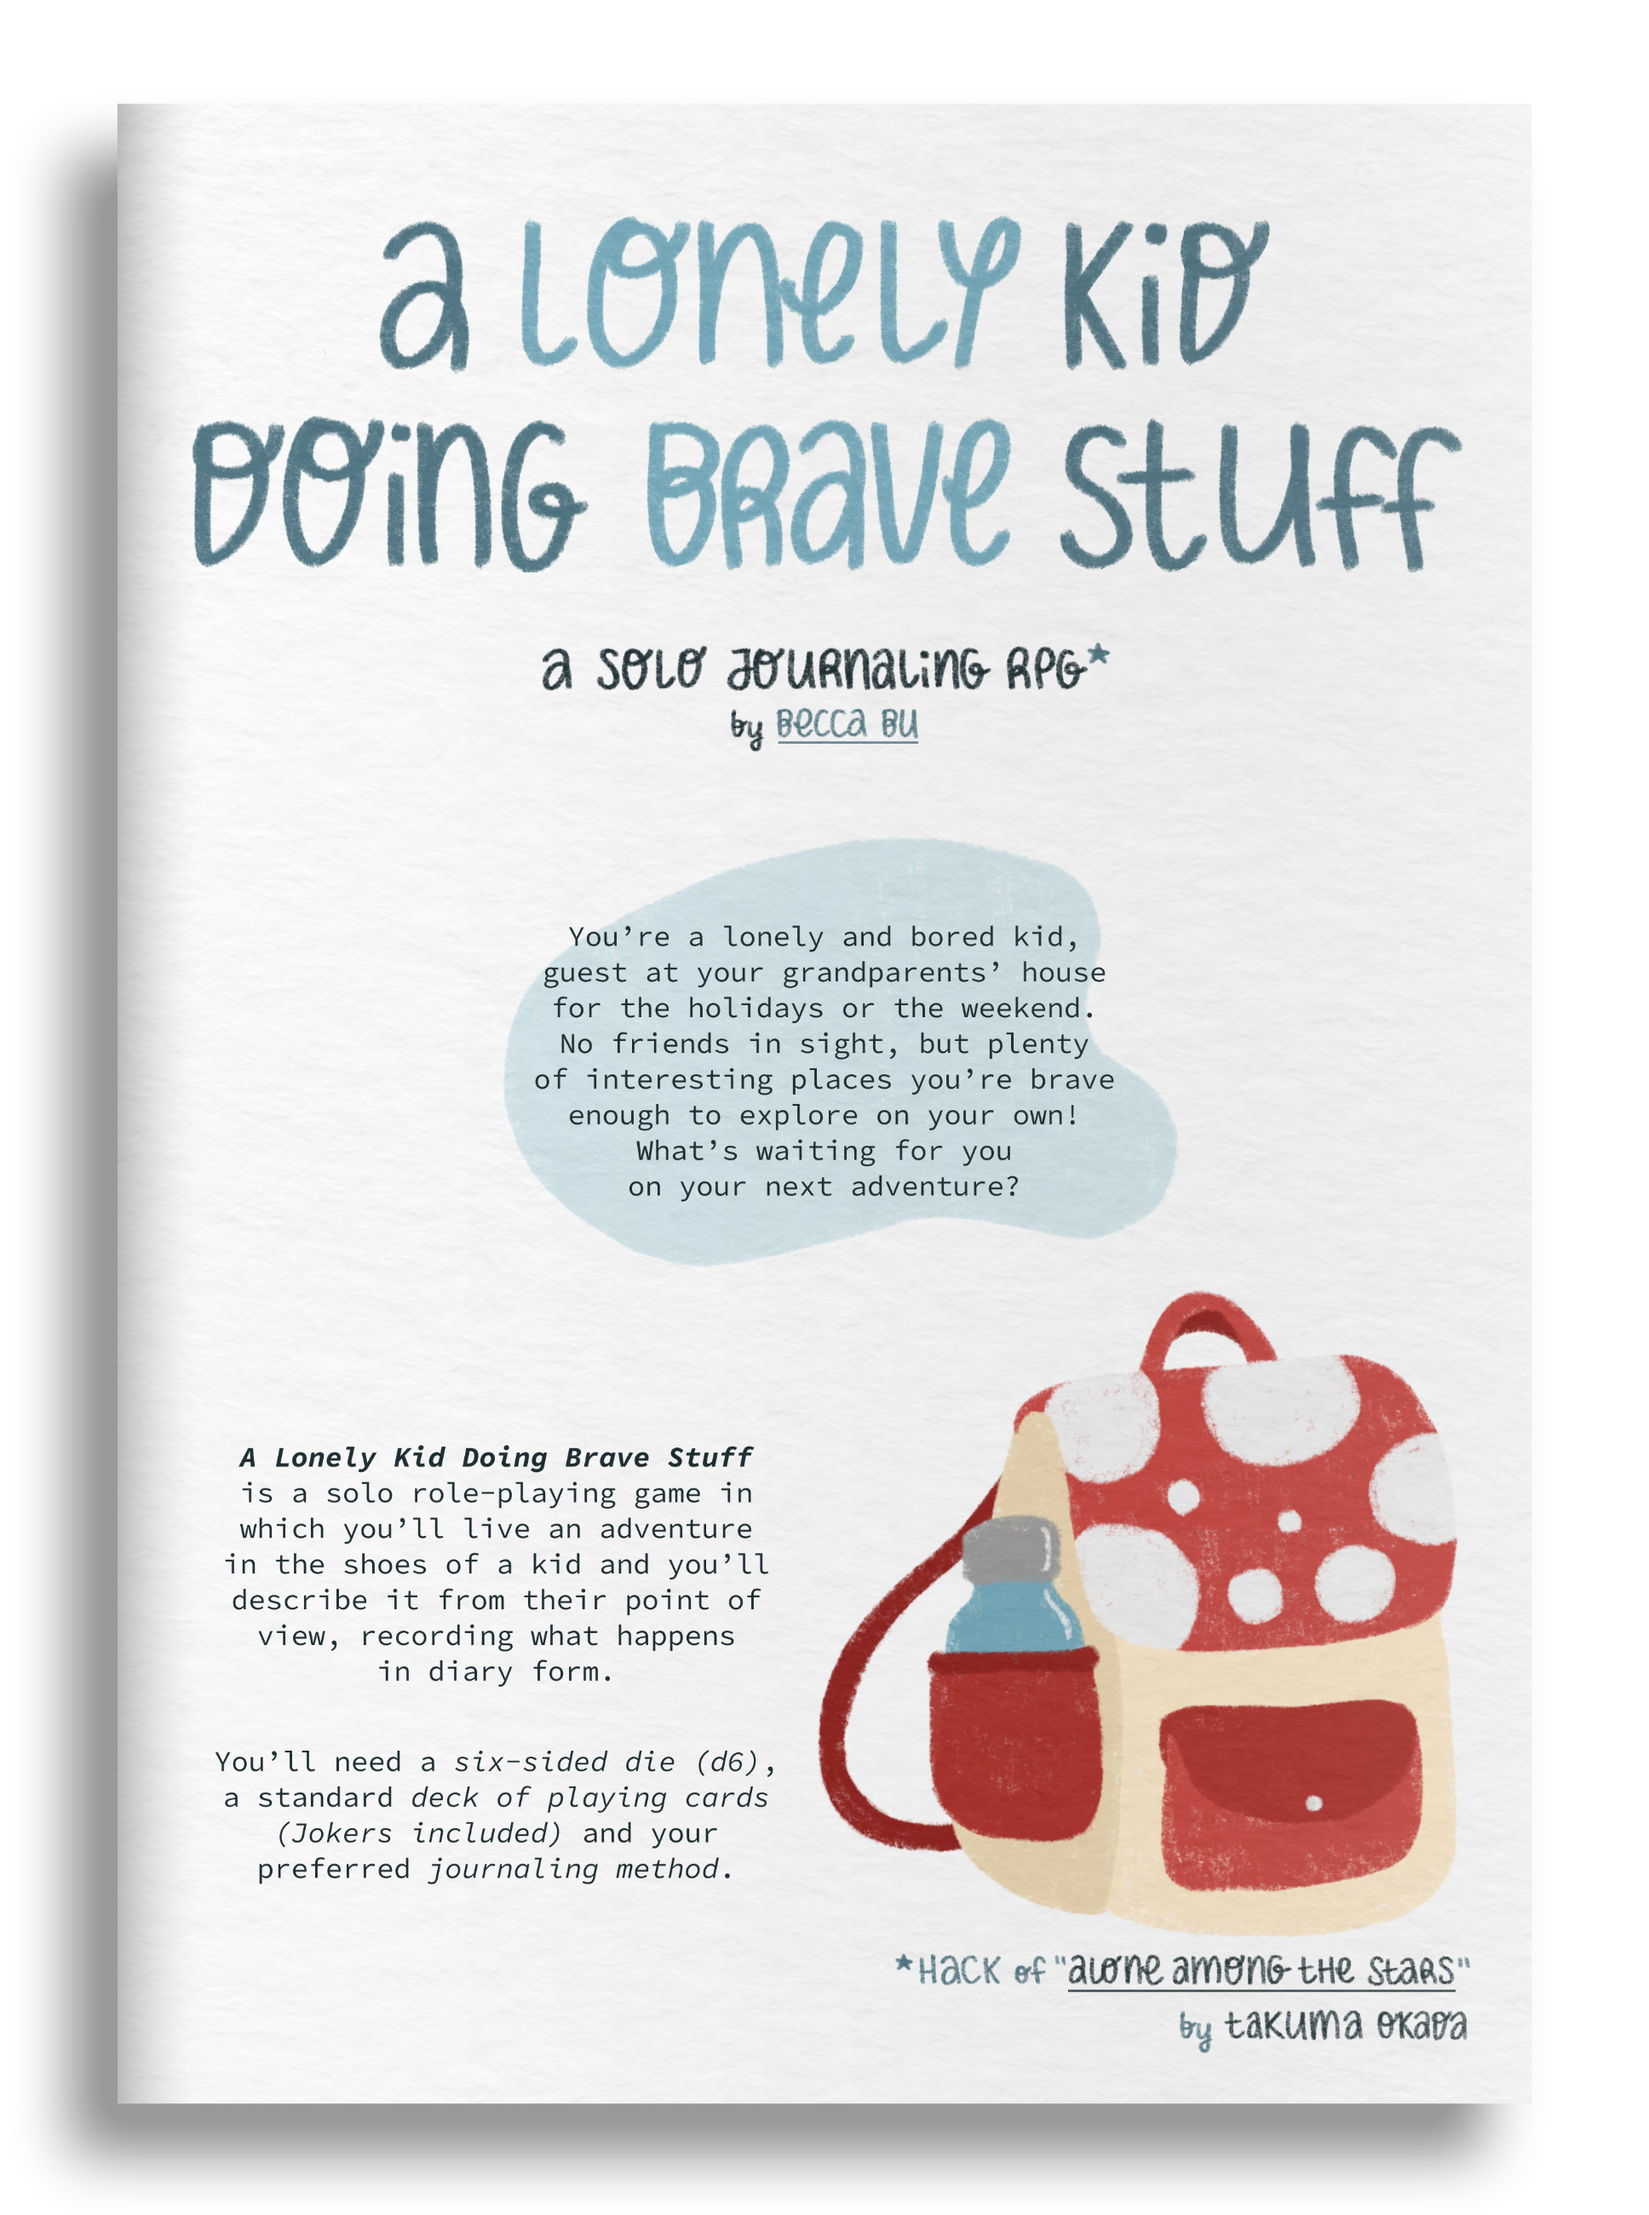
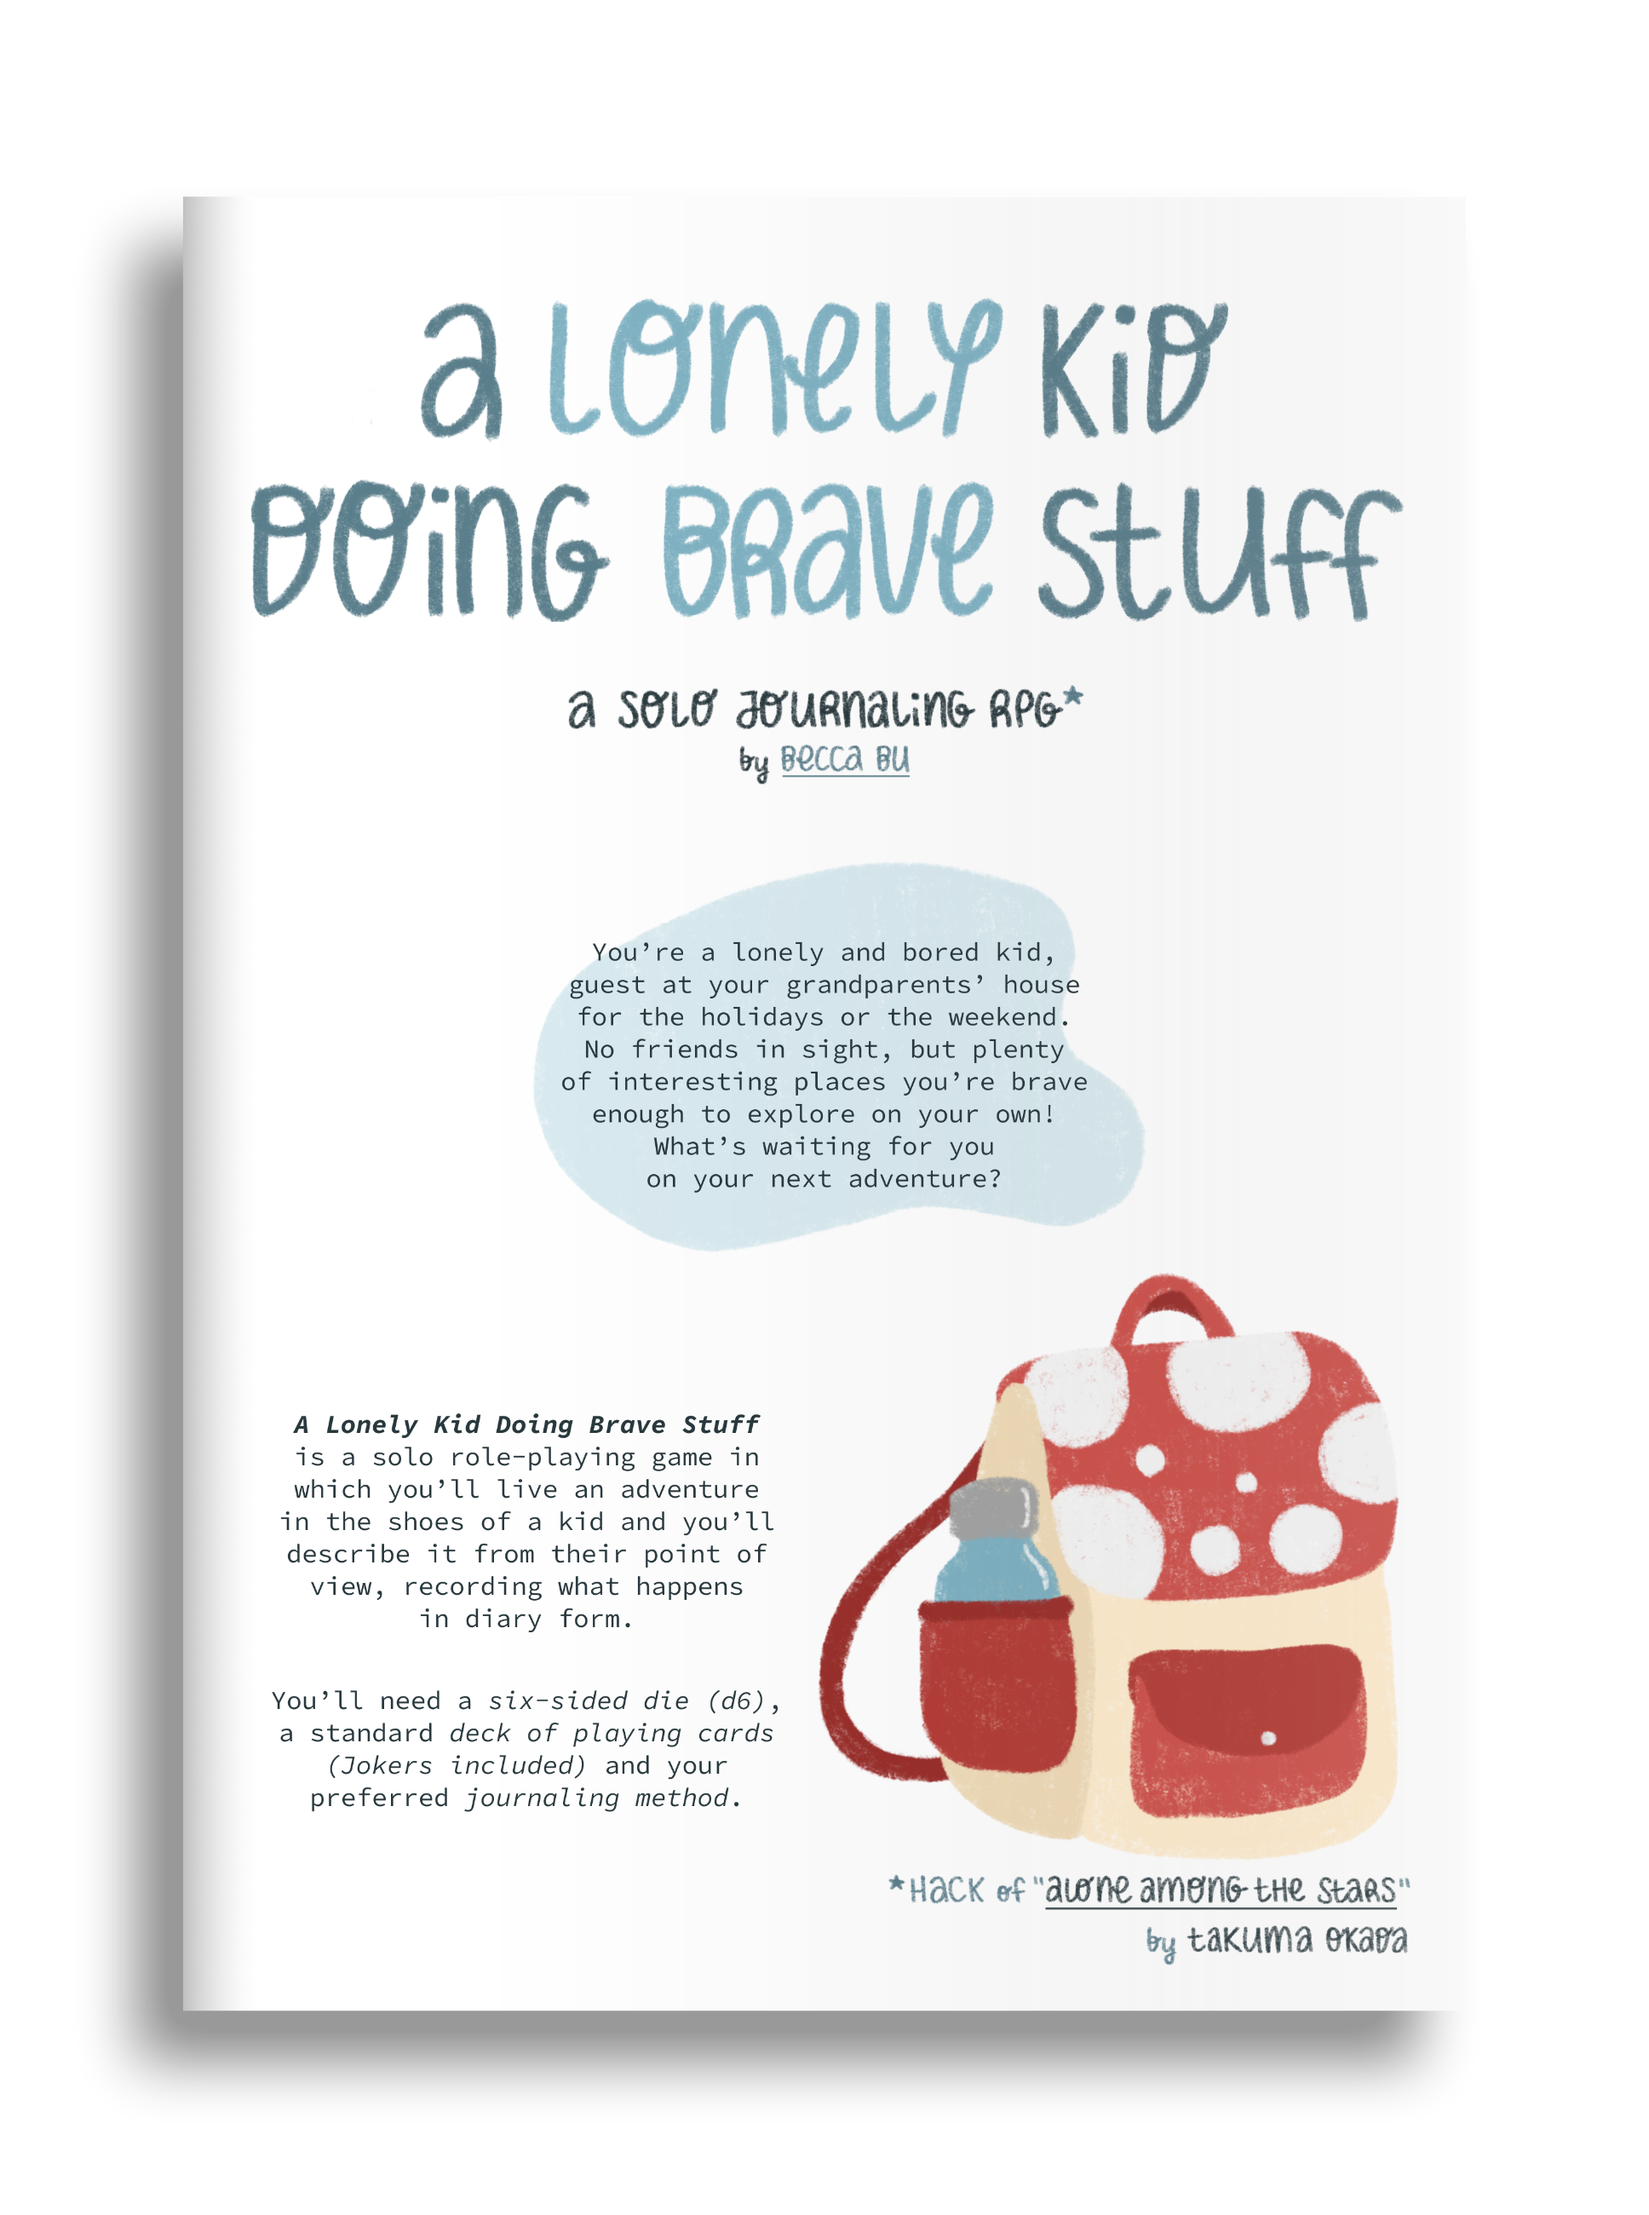
add bloblinks wip + removed obeliso + changed a lonely kid

Changed region(s): [[0.031, 0.0312, 0.9298, 0.9969]]

diff --git a/ttrpgs-and-zines.html b/ttrpgs-and-zines.html
@@ -34,6 +34,16 @@
     <div class="gallery">
         <div class="row">
             <div data-index="2" class="column">
+                <img class="image" src="ttrpgs_and_zines\Bloblinks WIP.png"> 
+                <div class="overlay">
+                    <div class="overlayText">
+                        <h4>WIP project!</h4>
+                        <h5>a zine and ttrpg</h5>
+                        <p>text, layout and artworks: Becca Buccheri</p>
+                    </div>
+                </div>
+            </div>
+            <div data-index="2" class="column">
                 <img class="image" src="ttrpgs_and_zines\A Lonely Kid mockup.png"> 
                 <div class="overlay">
                     <div class="overlayText">
@@ -52,17 +62,6 @@
                         <h5>36 word solo RPG</h5>
                         <p>text, layout and artworks: Becca Buccheri</p>
                         <p>see more <a href="https://beccabu.itch.io/youre-a-ghost" target="_blank">here</a>.</p>
-                    </div>
-                </div>
-            </div>
-            <div data-index="1" class="column">
-                <img class="image" src="ttrpgs_and_zines\Lo Strano Obelisco.png">
-                <div class="overlay">
-                    <div class="overlayText">
-                        <h4>lo strano obelisco venuto dallo spazio</h4>
-                        <h5>a system-agnostic dungeon</h5>
-                        <p>made for OPD 4 Play<br><br>text, layout and artworks: Becca Buccheri</p>
-                        <p>see more <a href="https://beccabu.itch.io/lo-strano-obelisco-venuto-dallo-spazio" target="_blank">here</a>.</p>
                     </div>
                 </div>
             </div>
